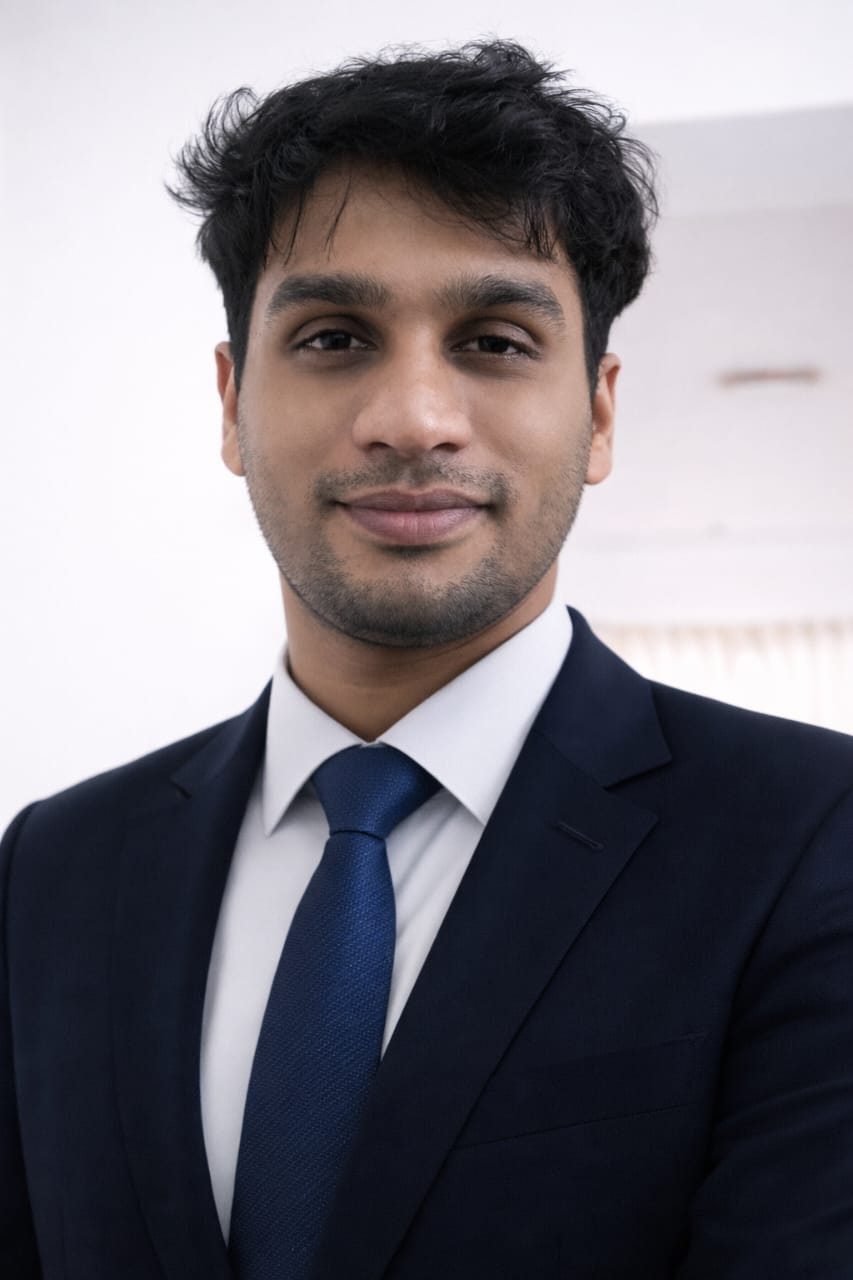
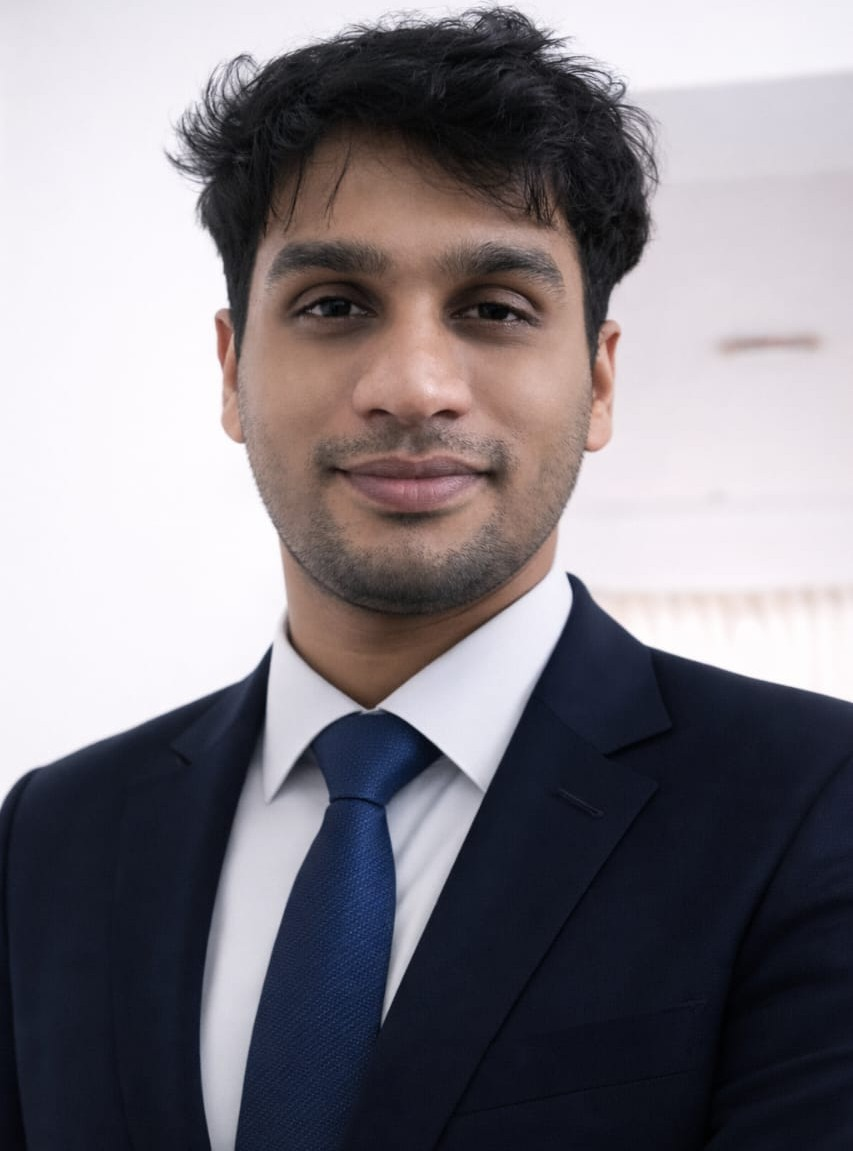
feat: Add team member images and card animations

diff --git a/src/pages/Team.jsx b/src/pages/Team.jsx
@@ -12,6 +12,12 @@ import ShoiabImg from '../assets/Shoiab.jpeg';
 import nuthanImg from '../assets/Nuthan.jpeg';
 import IqraaImg from '../assets/Iqraa.jpeg';
 import SiddaImg from '../assets/Sidda.jpeg';
+import likithImg from '../assets/likith.jpeg';
+import darshanRImg from '../assets/darshanr.jpeg';
+import roshniImg from '../assets/roshni.jpeg';
+import swathiImg from '../assets/Swathi.jpeg';
+import ayeshaImg from '../assets/ayesha.jpeg';
+import manojImg from '../assets/manoj.jpeg';
 
 const Team = () => {
     // Faculty
@@ -60,20 +66,20 @@ const Team = () => {
             id: 4,
             name: "Likith S",
             role: "Treasurer",
-            image: "https://ui-avatars.com/api/?name=Likith+S&background=d97706&color=fff",
-            github: "https://github.com",
-            linkedin: "https://linkedin.com",
-            email: "[EMAIL_ADDRESS]",
+            image: likithImg,
+            github: "https://github.com/likiths0802-prog",
+            linkedin: "https://www.linkedin.com/in/likith-s-394403384",
+            email: "likiths0802@gmail.com",
             size: "medium"
         },
         {
             id: 5,
             name: "Darshan R",
             role: "Web Master",
-            image: "https://ui-avatars.com/api/?name=Member+5&background=random&color=fff",
-            github: "https://github.com",
-            linkedin: "https://linkedin.com",
-            email: "member@acmsit.in",
+            image: darshanRImg,
+            github: "https://github.com/darshanr-codespace",
+            linkedin: "https://www.linkedin.com/in/darshan-r-6b58973b0",
+            email: "darshan.ramachandraiah10@gmail.com",
             size: "medium"
         },
         {
@@ -81,7 +87,7 @@ const Team = () => {
             name: "Pushpalatha G M",
             role: "Membership Chair",
             image: pushpaImg,
-            github: "https://github.com",
+            github: "https://github.com/bharathskanda",
             linkedin: "https://www.linkedin.com/in/pushpalatha-g-m-11b266346",
             email: "Pushpalatha70180@gmail.com",
             size: "medium"
@@ -90,30 +96,30 @@ const Team = () => {
             id: 7,
             name: "Roshni Begam",
             role: "Project & Research Head",
-            image: "https://ui-avatars.com/api/?name=Member+7&background=random&color=fff",
-            github: "https://github.com",
-            linkedin: "https://linkedin.com",
-            email: "member@acmsit.in",
+            image: roshniImg,
+            github: "https://github.com/Roshnii2608",
+            linkedin: "https://www.linkedin.com/in/roshnibegum2608/",
+            email: " roshnii2608@gmail.com",
             size: "medium"
         },
         {
             id: 8,
             name: "Swathi Sharanya K V",
             role: "Project & Research Head",
-            image: "https://ui-avatars.com/api/?name=Member+8&background=random&color=fff",
-            github: "https://github.com",
-            linkedin: "https://linkedin.com",
-            email: "member@acmsit.in",
+            image: swathiImg,
+            github: "https://github.com/kvsharanya1504",
+            linkedin: "https://www.linkedin.com/in/swathi-sharanya-k-v-00583b301",
+            email: "kvsharanya1504@gmail.com",
             size: "medium"
         },
         {
             id: 9,
             name: "Ayesha Khan",
             role: "Marketing Head",
-            image: "https://ui-avatars.com/api/?name=Member+9&background=random&color=fff",
-            github: "https://github.com",
-            linkedin: "https://linkedin.com",
-            email: "member@acmsit.in",
+            image: ayeshaImg,
+            github: "https://github.com/AyeshaKhan18675",
+            linkedin: "https://www.linkedin.com/in/ayesha-khan-8a02282b2",
+            email: "ayeshakhan71114@gmail.com",
             size: "medium"
         },
         {
@@ -130,10 +136,10 @@ const Team = () => {
             id: 11,
             name: "Manoj S",
             role: "Social Media Head",
-            image: "https://ui-avatars.com/api/?name=Member+11&background=random&color=fff",
-            github: "https://github.com",
-            linkedin: "https://linkedin.com",
-            email: "member@acmsit.in",
+            image: manojImg,
+            github: "https://github.com/Manoj-Artist",
+            linkedin: "https://www.linkedin.com/in/manoj-s-7b788b3b0/",
+            email: "manojr7artist@gmail.com",
             size: "medium"
         },
         {
@@ -167,6 +173,21 @@ const Team = () => {
             size: "medium"
         }
     ];
+
+    const containerVariants = {
+        hidden: { opacity: 0 },
+        show: {
+            opacity: 1,
+            transition: {
+                staggerChildren: 0.1
+            }
+        }
+    };
+
+    const itemVariants = {
+        hidden: { opacity: 0, y: 50 },
+        show: { opacity: 1, y: 0, transition: { duration: 0.5 } }
+    };
 
     return (
         <PageTransition>
@@ -209,11 +230,17 @@ const Team = () => {
                     {/* Core Team Grid - Bento Layout */}
                     <motion.div className="core-team-section">
                         <h2 className="team-category-title">Core Committee</h2>
-                        <div className="bento-grid">
+                        <motion.div
+                            className="bento-grid"
+                            variants={containerVariants}
+                            initial="hidden"
+                            whileInView="show"
+                            viewport={{ once: true }}
+                        >
                             {teamMembers.map(member => (
-                                <TeamMemberCard key={member.id} {...member} />
+                                <TeamMemberCard key={member.id} {...member} variants={itemVariants} />
                             ))}
-                        </div>
+                        </motion.div>
                     </motion.div>
 
                 </div>

diff --git a/src/components/TeamMemberCard.jsx b/src/components/TeamMemberCard.jsx
@@ -3,7 +3,7 @@ import { Github, Linkedin, Mail } from 'lucide-react';
 import { motion, useMotionValue, useSpring, useTransform } from 'framer-motion';
 import '../styles/team.css';
 
-const TeamMemberCard = ({ name, role, image, github, linkedin, email, size = "medium" }) => {
+const TeamMemberCard = ({ name, role, image, github, linkedin, email, size = "medium", variants }) => {
     // 3D Tilt Logic
     const x = useMotionValue(0);
     const y = useMotionValue(0);
@@ -35,10 +35,8 @@ const TeamMemberCard = ({ name, role, image, github, linkedin, email, size = "me
             style={{ perspective: 1000 }}
             onMouseMove={handleMouseMove}
             onMouseLeave={handleMouseLeave}
-            initial={{ opacity: 0, y: 50 }}
-            whileInView={{ opacity: 1, y: 0 }}
-            viewport={{ once: true }}
-            transition={{ duration: 0.5 }}
+            variants={variants}
+            whileHover={{ y: -10, transition: { duration: 0.3 } }}
         >
             <motion.div
                 className="team-card"
